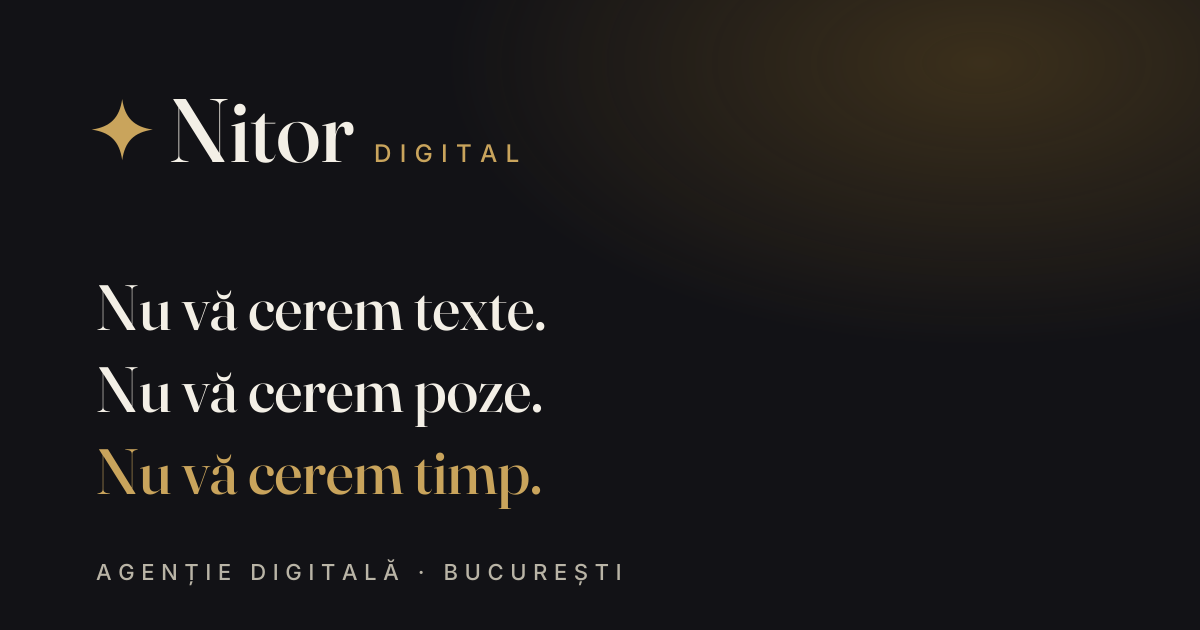
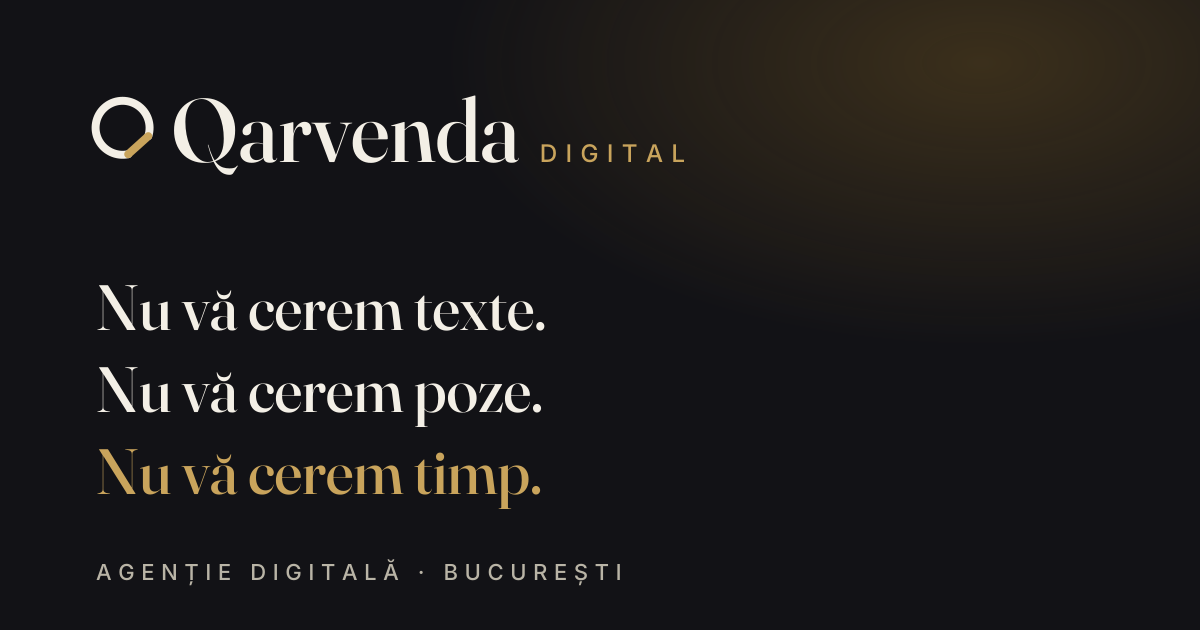
Rebrand: Qarvenda Digital + identitate nouă (semn abstract)
Numele a trecut verificarea completă (2026-07-14), spre deosebire de
Nitor (D22) și Nexlio (D24):
- qarvenda.ro + qarvenda.com LIBERE (ROTLD; RDAP 404 + whois "No match")
- zero mărci exacte în TMview, inclusiv variantele karvenda/carvenda/
  qarvendo/garvenda (EUIPO+OSIM+WIPO+naționale)
- zero conflict viu pe cl. 35/42 (unica vecinătate, MARVENDA DE, e
  expirată din 2008)
- zero firme active cu acest nume; github.com/qarvenda liber

Identitate: numele e inventat și nu înseamnă nimic, deci semnul poartă
sensul. Semnul = cercul închis de coardă: arcul de 300° (lucrarea pe care
o ducem noi la capăt) + coarda în alamă care îi închide deschiderea
(aprobarea omului, fără de care cercul nu e cerc) = "Pregătim noi.
Aprobați dumneavoastră."

Prima versiune a semnului (inel + coadă pe 45°) era, inevitabil, un Q --
randat lângă cuvânt se bâlbâia "Q Qarvenda", ca o eroare de tipar. Semnul
final e deliberat non-literal; prins prin randare, nu prin presupunere.

Geometria e sursă unică în două locuri care trebuie ținute sincron:
components/Icons.tsx (Mark) și scripts/gen-assets.mjs (markGeometry).
Regenerate: logo-light/dark/mark.svg, icon.svg, apple-icon.png, og.png.

Verificat în browser: var(--brass) se rezolvă în atributul SVG (brass pe
ambele teme), arcul urmează currentColor (ink pe paper, paper pe night),
build curat pe 21 de rute, zero erori în consolă.

Repo-ul rămâne "nitor-site" -- numele nu apare pe site, iar redenumirea
[…]

Changed region(s): [[0.0617, 0.1508, 0.555, 0.2714]]

diff --git a/lib/site.ts b/lib/site.ts
@@ -2,21 +2,25 @@
  * CONFIGURAREA SITE-ULUI — singurul fișier pe care îl editezi pentru
  * brand, domeniu, Cal.com și WhatsApp. Restul site-ului citește de aici.
  *
- * ATENȚIE (verificare de marcă 2026-07-14): numele „Nitor” are conflicte —
- * nitor.com e ocupat din 1997 (Nitor Oy, consultanță digitală, Finlanda),
- * există marcă UE activă „Nitor Brilliance @ work” (cl. 9+42, Nitor Infotech).
- * Dacă owner-ul schimbă numele: editează `brand`, `brandShort`, `domeniu`
- * aici + rulează `npm run assets` (regenerează logo/favicon/og din nou).
+ * Numele „Qarvenda” a trecut verificarea completă pe 2026-07-14 (vezi D25 în
+ * CLAUDE.md): qarvenda.ro + qarvenda.com LIBERE (ROTLD; RDAP Verisign 404 +
+ * whois „No match”), ZERO mărci exacte (TMview: qarvenda/karvenda/carvenda/
+ * qarvendo/garvenda), zero conflict viu pe cl. 35/42 (singura vecinătate,
+ * MARVENDA DE, e expirată din 2008), zero firme active, github.com/qarvenda
+ * liber. Numele nu are semnificație — sensul îl poartă semnul (brand/IDENTITY.md).
+ *
+ * Dacă owner-ul schimbă numele: editează `brand`, `brandShort`, `url` aici +
+ * `BRAND_MAIN` în scripts/gen-assets.mjs, apoi rulează `npm run assets`.
  */
 export const site = {
-  brand: "Nitor Digital",
-  brandShort: "Nitor",
+  brand: "Qarvenda Digital",
+  brandShort: "Qarvenda",
   slogan: "Pregătim noi. Aprobați dumneavoastră.",
   oras: "București",
   tara: "România",
 
   /** URL-ul public al build-ului curent (staging sau producție). */
-  url: (process.env.NEXT_PUBLIC_SITE_URL ?? "https://nitor.ro").replace(/\/$/, ""),
+  url: (process.env.NEXT_PUBLIC_SITE_URL ?? "https://qarvenda.ro").replace(/\/$/, ""),
 
   /** Cine găzduiește build-ul curent — apare în pagina GDPR. */
   gazduire: process.env.NEXT_PUBLIC_HOSTING ?? "Vercel Inc.",
@@ -25,7 +29,7 @@ export const site = {
   formEmail: "macminim4agents@proton.me",
 
   /**
-   * Linkul Cal.com, ex. "nitor/apel-15-min". Gol = secțiunea de programare
+   * Linkul Cal.com, ex. "qarvenda/apel-15-min". Gol = secțiunea de programare
    * arată mesajul de rezervă și trimite vizitatorii la formular.
    * Scriptul Cal.com se încarcă DOAR la click — pagina rămâne rapidă.
    */

diff --git a/components/Icons.tsx b/components/Icons.tsx
@@ -31,11 +31,33 @@ function Svg({
   );
 }
 
-/** Semnul „nitor” — o scânteie cu patru vârfuri (nitor, lat. = strălucire). */
-export function Gleam({ size = 18, className }: P) {
+/**
+ * Semnul casei — cercul închis de coardă.
+ *
+ * Arcul (300°) = lucrarea pe care o ducem noi până la capăt. Coarda în alamă
+ * care îi închide deschiderea = aprobarea omului: ultimul segment, fără care
+ * cercul nu e cerc. „Pregătim noi. Aprobați dumneavoastră." — literal.
+ *
+ * Deliberat NU seamănă cu o literă: cuvântul începe cu Q, iar un semn în formă
+ * de Q lângă el s-ar bâlbâi. Geometria e replicată în `scripts/gen-assets.mjs`
+ * (`markGeometry`) — dacă se schimbă aici, se schimbă și acolo.
+ * Puncte: 18° și 78° pe cercul r=7.3 centrat în (12,12).
+ */
+export function Mark({ size = 18, className }: P) {
   return (
-    <svg width={size} height={size} viewBox="0 0 24 24" fill="currentColor" aria-hidden="true" className={className}>
-      <path d="M12 1.6 C12.9 8 15.9 11.05 22.4 12 C15.9 12.95 12.9 16 12 22.4 C11.1 16 8.1 12.95 1.6 12 C8.1 11.05 11.1 8 12 1.6 Z" />
+    <svg width={size} height={size} viewBox="0 0 24 24" fill="none" aria-hidden="true" className={className}>
+      <path
+        d="M13.52 19.14 A7.3 7.3 0 1 1 18.94 14.26"
+        stroke="currentColor"
+        strokeWidth="2.15"
+        strokeLinecap="round"
+      />
+      <path
+        d="M18.94 14.26 L13.52 19.14"
+        stroke="var(--brass)"
+        strokeWidth="2.15"
+        strokeLinecap="round"
+      />
     </svg>
   );
 }

diff --git a/components/Header.tsx b/components/Header.tsx
@@ -4,7 +4,7 @@ import Link from "next/link";
 import { usePathname } from "next/navigation";
 import { useEffect, useRef, useState } from "react";
 import { site } from "@/lib/site";
-import { Gleam } from "./Icons";
+import { Mark } from "./Icons";
 
 const links = [
   { href: "/servicii", label: "Servicii" },
@@ -60,7 +60,7 @@ export default function Header() {
       >
         <div className="container nav">
           <Link className="brand" href="/" aria-label={`${site.brand} — pagina principală`}>
-            <Gleam size={17} className="brand-gleam" />
+            <Mark size={17} className="brand-mark" />
             <span className="brand-word">{site.brandShort}</span>
             <span className="brand-sub">Digital</span>
           </Link>

diff --git a/components/Footer.tsx b/components/Footer.tsx
@@ -1,7 +1,7 @@
 import Link from "next/link";
 import { site, anCurent } from "@/lib/site";
 import { servicii } from "@/content/ro";
-import { Gleam } from "./Icons";
+import { Mark } from "./Icons";
 
 export default function Footer() {
   const psi = `https://pagespeed.web.dev/analysis?url=${encodeURIComponent(site.url + "/")}`;
@@ -11,7 +11,7 @@ export default function Footer() {
         <div className="footer-grid">
           <div>
             <span className="brand">
-              <Gleam size={16} />
+              <Mark size={16} />
               <span className="brand-word">{site.brandShort}</span>
               <span className="brand-sub">Digital</span>
             </span>

diff --git a/brand/IDENTITY.md b/brand/IDENTITY.md
@@ -1,29 +1,72 @@
-# Identitatea vizuală — Nitor Digital
+# Identitatea vizuală — Qarvenda Digital
 
-> ATENȚIE: numele „Nitor" are conflicte cunoscute (verificare 2026-07-14):
-> nitor.com e al Nitor Oy (consultanță digitală, Finlanda, din 1997); există
-> marcă UE activă „Nitor Brilliance @ work" (Nitor Infotech, cl. 9+42,
-> valabilă și în RO). Dacă numele se schimbă: editează `lib/site.ts`,
-> înlocuiește textele din acest fișier și rulează `npm run assets`.
+> Numele a trecut verificarea completă pe 2026-07-14 (D25 în CLAUDE.md):
+> qarvenda.ro + qarvenda.com libere, zero mărci exacte în TMview (EUIPO,
+> OSIM, WIPO + naționale), zero conflict viu pe clasele 35/42, zero firme
+> active, github.com/qarvenda liber. Dacă numele se schimbă totuși: editează
+> `lib/site.ts` + `BRAND_MAIN` din `scripts/gen-assets.mjs`, înlocuiește
+> textele de aici și rulează `npm run assets`.
 
-## Semnul: scânteia (gleam)
+## Premisa
 
-„Nitor" în latină = strălucire, lustru. Semnul e o scânteie cu patru vârfuri
-și laturi concave — reflexul de lumină de pe o suprafață lustruită. Simplu,
-geometric, lizibil la 16 px (favicon) și elegant la orice dimensiune.
+**„Qarvenda" nu înseamnă nimic.** E inventat intenționat: fără rădăcină latină,
+fără traducere, fără sens preexistent în vreo limbă. Consecința e importantă și
+deliberată — **semnul e cel care poartă sensul, nu cuvântul.** Un nume gol e un
+vas: identitatea vizuală îl umple. De aceea semnul nu e o decorație pusă lângă
+literă, ci argumentul central al brandului.
 
-- Sursa geometriei: `components/Icons.tsx` (componenta `Gleam`) și
-  `scripts/gen-assets.mjs` (funcția `gleamPath`).
+## Semnul: cercul închis de coardă
+
+Două elemente geometrice, fără nicio figurativitate:
+
+- **Arcul** (300° din cerc, în ink) — lucrarea pe care o ducem noi până la
+  capăt. E promisiunea din hero: *nu vă cerem texte, nu vă cerem poze, nu vă
+  cerem timp.*
+- **Coarda în alamă** care închide deschiderea — aprobarea omului. Ultimul
+  segment, scurt, fără de care cercul nu e cerc. E principiul care ține tot
+  proiectul: *pregătim noi, aprobați dumneavoastră.* Sistemul face 300 de
+  grade; butonul rămâne al omului.
+
+Rezultatul e un cerc cu o singură latură dreaptă, aurie — o formă care nu
+seamănă cu nimic altceva și se reține.
+
+**De ce NU e un Q.** Prima versiune a semnului era un inel cu o coadă pe 45° —
+adică, inevitabil, litera Q. Randată lângă cuvânt, se bâlbâia: „Q Qarvenda",
+ca o eroare de tipar (semnul geometric și Q-ul serif al Fraunces se citeau ca
+două încercări la aceeași literă). Semnul actual e deliberat non-literal:
+inițiala e treaba cuvântului, sensul e treaba semnului.
+
+Geometria (normalizată la rază, identică în cele două surse):
+
+| Parametru | Valoare |
+|---|---|
+| Grosimea liniei | `0.295 × r` |
+| Capetele coardei | pe cerc, la `18°` și `78°` (dreapta-jos; 0° = ora 3, sensul acelor de ceas) |
+| Arcul | restul de 300°, `large-arc-flag=1`, `sweep-flag=1` |
+| Capetele | rotunde (`stroke-linecap: round`) |
+| Arcul | `fg` (ink pe deschis / paper pe închis) |
+| Coarda | `accent` (brass) — singurul element colorat |
+
+Bbox-ul semnului e cel al cercului: `±(r + grosime/2)` = `±1.1475 × r` pe ambele
+axe. Coarda nu iese din el — util la alinierea lockup-ului.
+
+- Sursa: `components/Icons.tsx` (componenta `Mark`) și `scripts/gen-assets.mjs`
+  (`markGeometry` / `markSvg`). **Se modifică în ambele sau în niciunul.**
 - Fișiere: `brand/logo-mark.svg`, `app/icon.svg` (favicon), `app/apple-icon.png`.
+
+Regula de contrast a semnului: coarda e MEREU alamă, pe orice fundal — `--brass`
+(#a57b2a) e mid-tone, deci se vede și pe ivoriu, și pe night. Arcul își schimbă
+culoarea cu fundalul, coarda nu.
 
 ## Lockup-ul (logo complet)
 
-**[scânteie] Nitor DIGITAL** — „Nitor" în Fraunces (serif display, 560,
-optical size mare), „DIGITAL" în Inter Medium, majuscule, tracking 0.34em,
-în culoarea de accent. Generat cu text conturat (paths) în:
+**[semn] Qarvenda DIGITAL** — „Qarvenda" în Fraunces (serif display, 560,
+optical size mare), „DIGITAL" în Inter Medium, majuscule, tracking 0.34em, în
+culoarea de accent. Semnul e optic centrat pe corpul cuvântului (nu pe linia de
+bază). Generat cu text conturat (paths):
 
-- `brand/logo-light.svg` — pentru fundal deschis (text ink)
-- `brand/logo-dark.svg` — pentru fundal închis (text paper)
+- `brand/logo-light.svg` — pentru fundal deschis (arc ink)
+- `brand/logo-dark.svg` — pentru fundal închis (arc paper)
 
 Regenerare: `npm run assets` (folosește fonturile din `brand/fonts-ttf/`).
 
@@ -33,15 +76,15 @@ Regenerare: `npm run assets` (folosește fonturile din `brand/fonts-ttf/`).
 |---|---|---|
 | `--paper` | `#F6F3EC` | fundalul principal (ivoriu cald) |
 | `--paper-2` | `#EFEADF` | secțiuni alternative |
-| `--ink` | `#17171C` | text principal, butoane |
+| `--ink` | `#17171C` | text principal, butoane, inelul |
 | `--ink-2` | `#4E4E58` | text secundar |
-| `--brass` | `#A57B2A` | accent decorativ: linii, numerale, semn |
+| `--brass` | `#A57B2A` | accent decorativ: linii, numerale, coada semnului |
 | `--brass-text` | `#7A581C` | accent pe text (contrast AA pe paper) |
 | `--night` | `#121216` | secțiuni închise, footer, og-image |
 | `--paper-on-night` | `#F3EFE6` | text pe fundal închis |
 
-Regula de folosire: alama (brass) e condiment, nu fel principal — linii de
-1px, numerale, semnul, un singur cuvânt accentuat în hero. Niciodată fundal
+Regula de folosire: alama e condiment, nu fel principal — linii de 1px,
+numerale, coada semnului, un singur cuvânt accentuat în hero. Niciodată fundal
 pe suprafețe mari, niciodată text lung.
 
 ## Tipografia

diff --git a/README.md b/README.md
@@ -1,9 +1,15 @@
-# nitor-site — site-ul agenției (Next.js)
+# Site-ul agenției — Qarvenda Digital (Next.js)
 
 Site static (Next.js, `output: "export"`) cu animații GSAP + Lenis.
 **Un singur fișier de configurare:** [`lib/site.ts`](lib/site.ts) — brand,
 Cal.com, WhatsApp, email formular. Conținutul: [`content/ro.ts`](content/ro.ts).
 Identitatea vizuală: [`brand/IDENTITY.md`](brand/IDENTITY.md).
+
+> **Repo-ul se numește încă `nitor-site`** — „Nitor" a fost un brand de lucru
+> respins la verificarea de marcă (D22). Brandul curent, „Qarvenda", a trecut
+> verificarea completă pe 2026-07-14 (D25). Numele repo-ului nu apare nicăieri
+> pe site; redenumirea lui (`gh repo rename qarvenda-site` + directorul local)
+> schimbă URL-ul de staging, deci se face deliberat, nu în treacăt.
 
 ## Comenzi
 
@@ -18,7 +24,7 @@ npm run assets     # regenerează logo/favicon/og.png (după schimbare de brand)
 
 | | Staging (GitHub Pages) | Producție (Vercel + domeniu) |
 |---|---|---|
-| URL | https://macminim4agents-rgb.github.io/nitor-site | https://nitor.ro (după cumpărare) |
+| URL | https://macminim4agents-rgb.github.io/nitor-site | https://qarvenda.ro (după cumpărare) |
 | Build env | `NEXT_PUBLIC_BASE_PATH=/nitor-site`<br>`NEXT_PUBLIC_SITE_URL=<url staging>`<br>`NEXT_PUBLIC_HOSTING="GitHub Pages (GitHub, Inc.)"` | fără variabile (default-uri corecte) |
 | Deploy | `scripts/deploy-staging.sh` | push pe `main` → Vercel |
 
